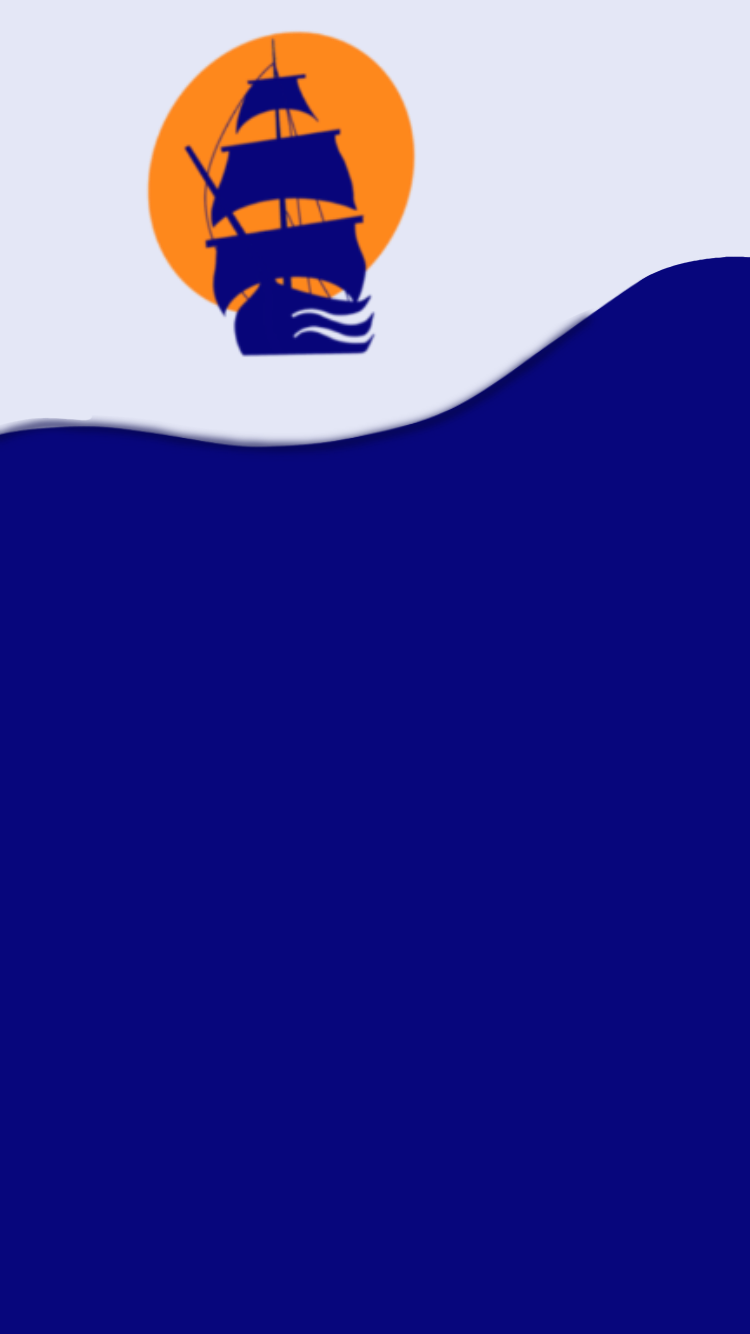
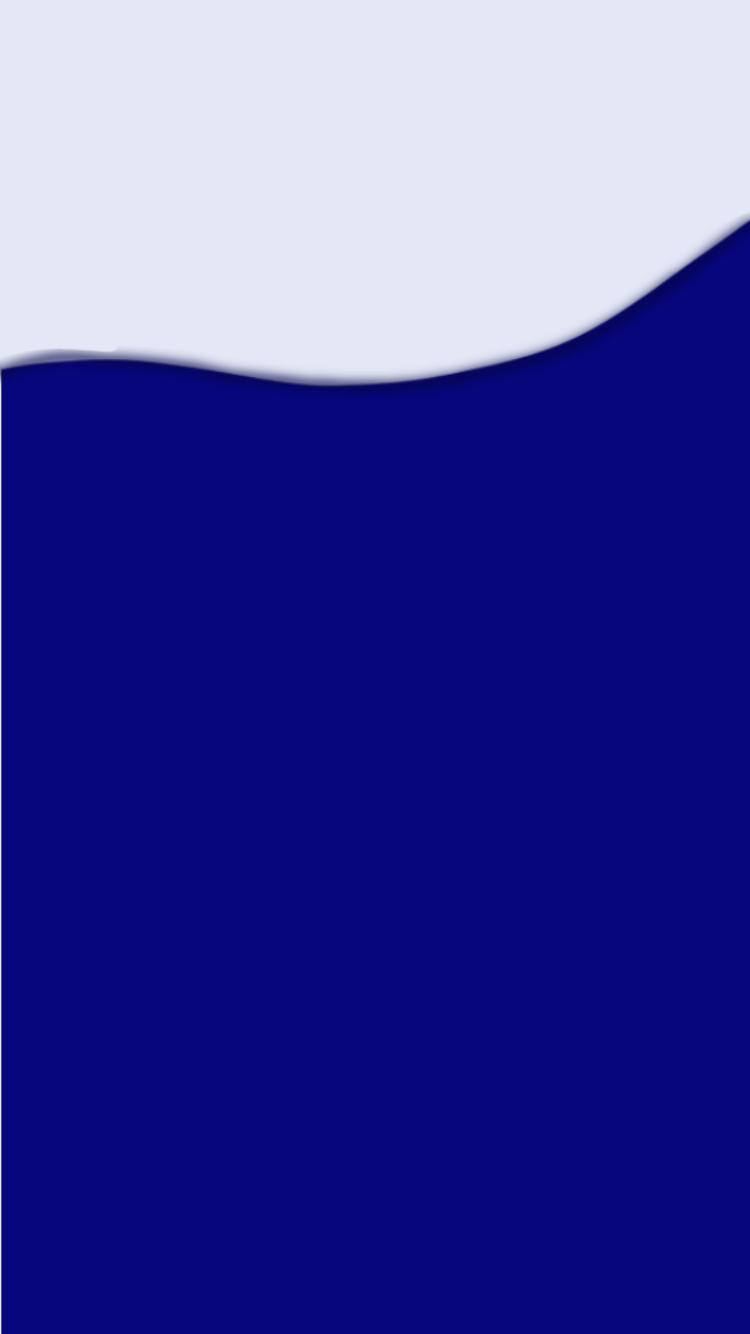
Modification menu slide (background + look)

Changed region(s): [[0.0, 0.0, 1.0, 0.3381]]

diff --git a/src/app/component/menu/menu.component.html b/src/app/component/menu/menu.component.html
@@ -1,17 +1,17 @@
 <ion-menu side="start" menuId="first" contentId="main">
-  <ion-header>
-    <ion-toolbar color="primary" class="logo">
-        <img width="40" height="40" src="../../assets/images/BT_Logo.png">
-    </ion-toolbar>
-  </ion-header>
-  <ion-content>
-    <ion-list>
-      <ion-item [routerLink]="['/home']">Accueil</ion-item>
-      <ion-item [routerLink]="['/produit']">Produits & Promotions</ion-item>
-      <ion-item [routerLink]="['/information', 'Restaurants']">Restaurants</ion-item>
-      <ion-item [routerLink]="['/information', 'Recettes']">Recette</ion-item>
-      <ion-item [routerLink]="['/information', 'Bateaux']">Bateaux</ion-item>
-      <ion-item [routerLink]="['/contact']">Contact</ion-item>
-    </ion-list>
-  </ion-content>
+    <ion-content class="background">
+        <div class="img-container"><img src="../../assets/images/BT_Menu_logo.png" />
+        </div>
+        <div class="list-container">
+            <ion-list class="menu-list">
+                <ion-list-header class="list-title">Produits & Promotions</ion-list-header>
+                <ion-item class="menu-item" [routerLink]=" [' /home']">Accueil</ion-item>
+                <ion-item class="menu-item" [routerLink]="['/produit']">Produits & Promotions</ion-item>
+                <ion-item class="menu-item" [routerLink]="['/information', 'Restaurants']">Restaurants</ion-item>
+                <ion-item class="menu-item" [routerLink]="['/information', 'Recettes']">Recette</ion-item>
+                <ion-item class="menu-item" [routerLink]="['/information', 'Bateaux']">Bateaux</ion-item>
+                <ion-item class="menu-item" [routerLink]="['/contact']">Contact</ion-item>
+            </ion-list>
+        </div>
+    </ion-content>
 </ion-menu>

diff --git a/src/app/component/menu/menu.component.scss b/src/app/component/menu/menu.component.scss
@@ -1,3 +1,33 @@
 .logo {
     text-align:center;
 }
+
+.img-container {
+    text-align:center;
+}
+
+.list-container {
+    position :relative;
+}
+
+.menu-list {
+    position: absolute;
+    border-color: transparent !important;
+    background: transparent !important;
+
+    .list-title {
+        color:white;
+        font-style:italic;
+        margin-bottom:10px;
+    }
+    
+    .menu-item {
+        --background: inherit;
+        border-color: transparent !important;
+        color: white;
+    }
+}
+
+.background {
+--background:url(../../../assets/images/BT_Menu.png) no-repeat center/cover fixed;
+}
